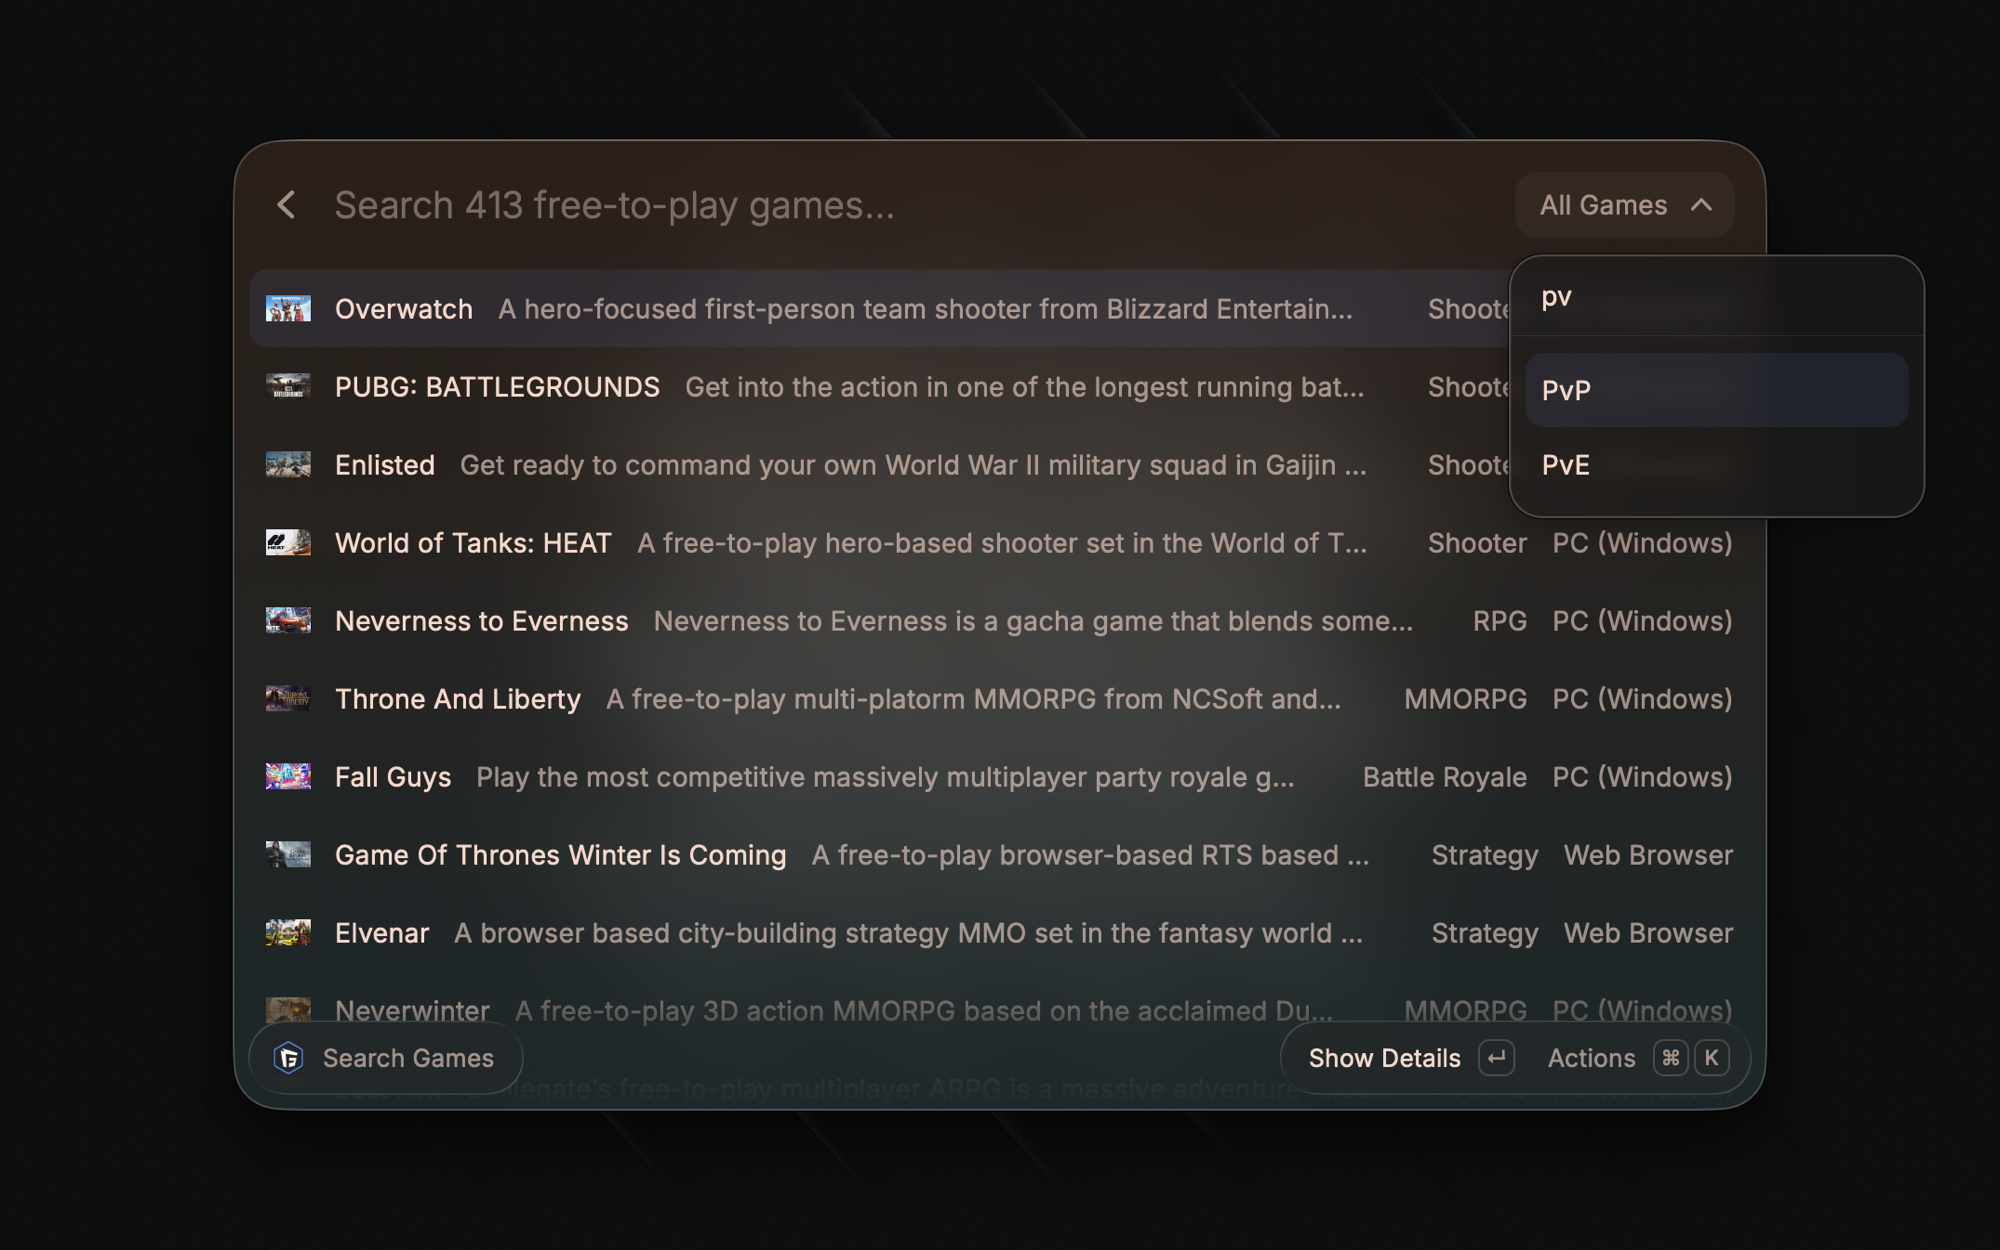
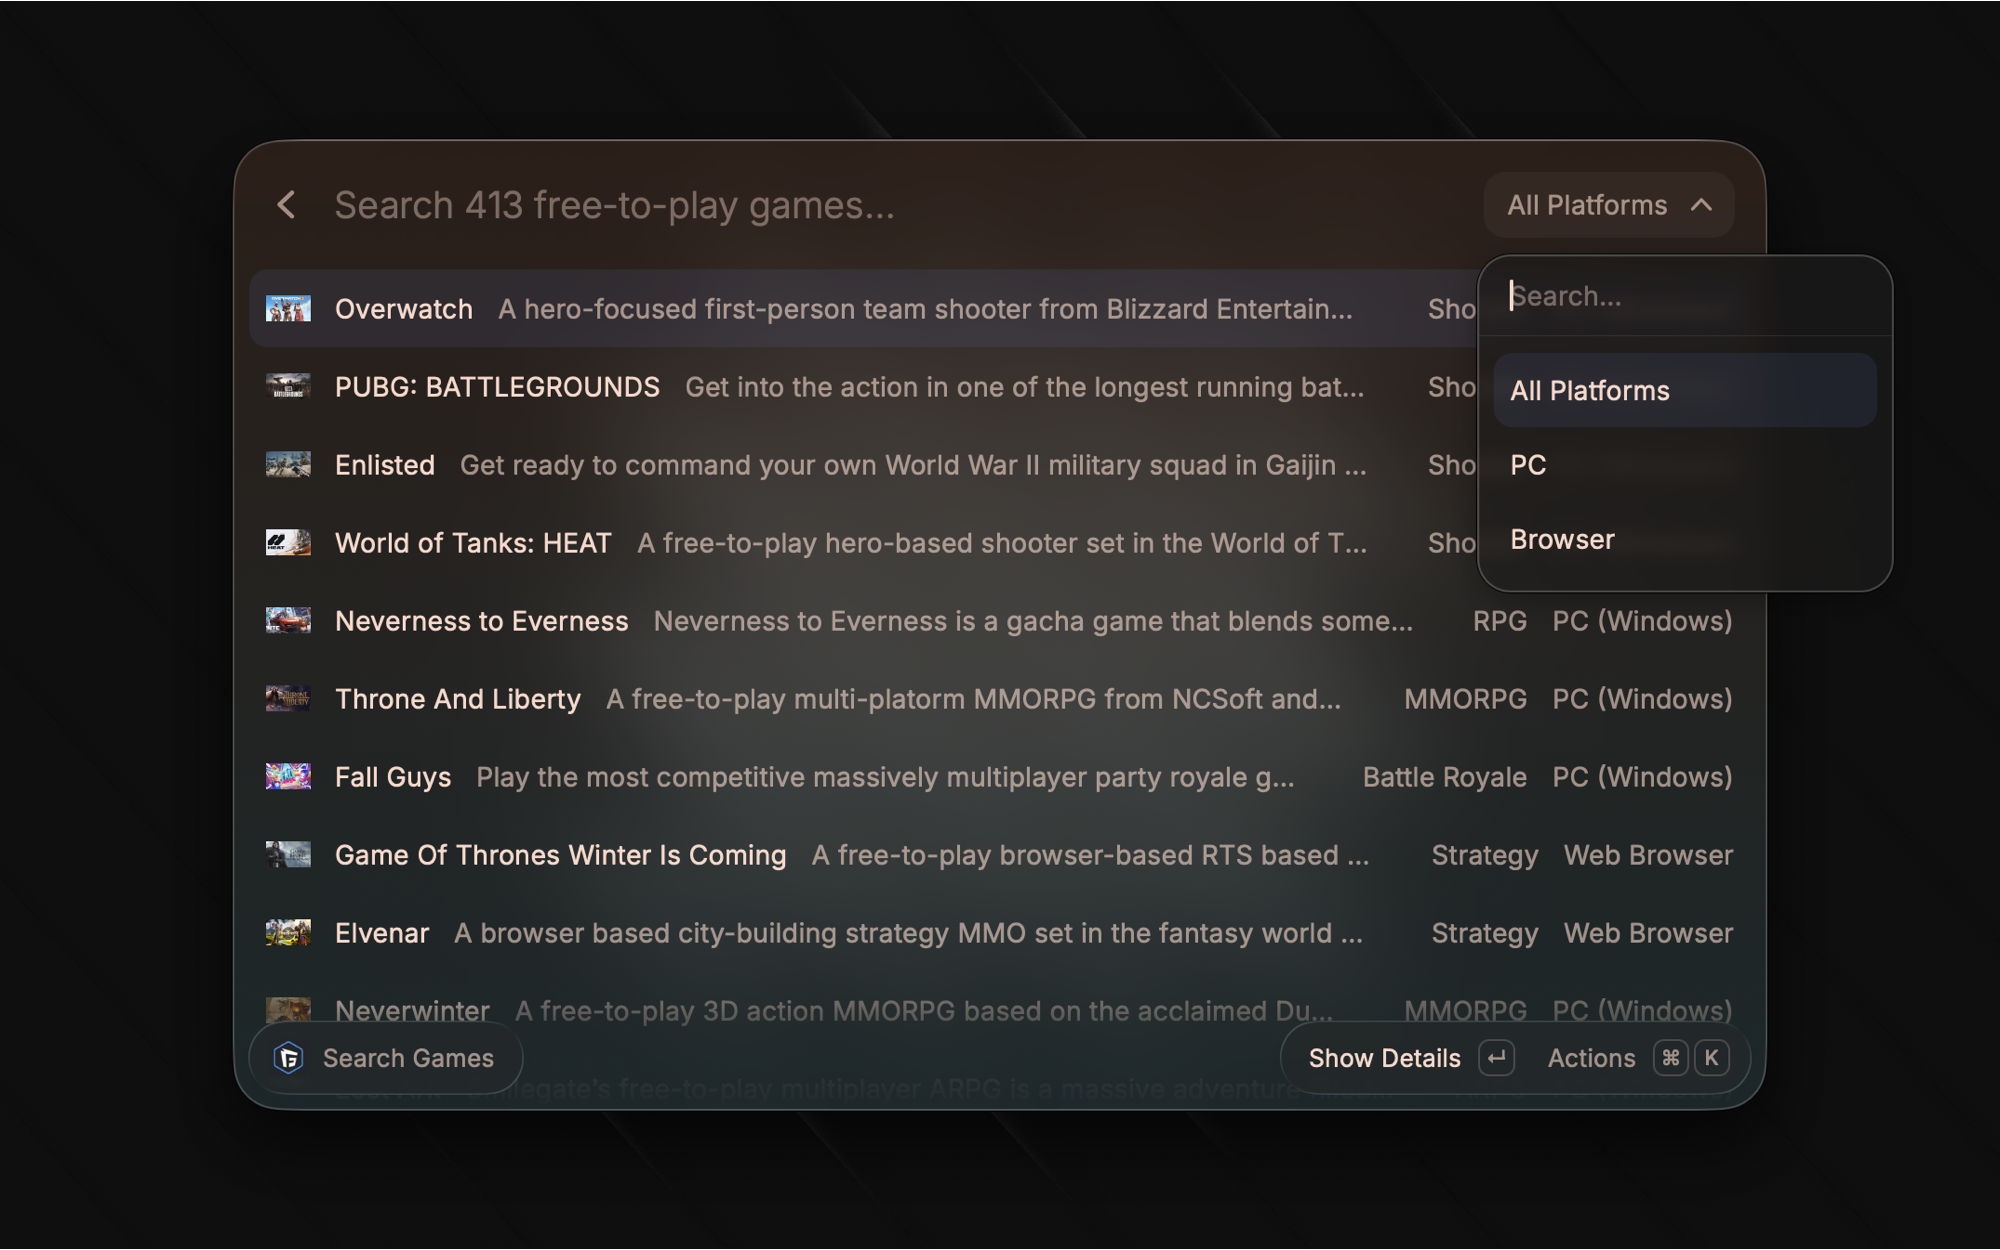
Refactor filtering and sorting to support multiple categories and client-side sorting

diff --git a/src/search-games.tsx b/src/search-games.tsx
@@ -57,13 +57,9 @@ const CATEGORY_VALUES = Object.keys(CATEGORY_LABELS) as CategoryValue[];
 
 type CategoryValue = keyof typeof CATEGORY_LABELS;
 
-type FilterValue =
-  | "all"
-  | "platform:pc"
-  | "platform:browser"
-  | `category:${CategoryValue}`
-  | "sort-by:release-date"
-  | "sort-by:alphabetical";
+type PlatformValue = "pc" | "browser";
+
+type SortValue = "release-date" | "alphabetical";
 
 type FreeToGameListItem = {
   id: number;
@@ -79,17 +75,23 @@ type FreeToGameListItem = {
   freetogame_profile_url: string;
 };
 
+type FreeToGameListResponse = FreeToGameListItem[] | { status: number; status_message: string };
+
 export default function Command() {
-  const [filter, setFilter] = useState<FilterValue>("all");
+  const [platform, setPlatform] = useState<PlatformValue>();
+  const [categories, setCategories] = useState<CategoryValue[]>([]);
+  const [sort, setSort] = useState<SortValue>();
   const [showingDetail, setShowingDetail] = useState(false);
   const {
     data: games,
     isLoading,
     error,
     revalidate,
-  } = useFetch<FreeToGameListItem[]>(buildGamesUrl(filter), {
+  } = useFetch<FreeToGameListResponse>(buildGamesUrl(platform, categories), {
     keepPreviousData: true,
   });
+
+  const sortedGames = sortGames(games, sort);
 
   if (error) {
     return (
@@ -112,16 +114,16 @@ export default function Command() {
     );
   }
 
-  const gameCount = games?.length ?? 0;
+  const gameCount = sortedGames?.length ?? 0;
 
   return (
     <List
       isLoading={isLoading}
       isShowingDetail={showingDetail}
       searchBarPlaceholder={`Search ${gameCount} free-to-play ${gameCount === 1 ? "game" : "games"}...`}
-      searchBarAccessory={<GameFilterDropdown filter={filter} onFilterChange={setFilter} />}
+      searchBarAccessory={<PlatformDropdown platform={platform} onPlatformChange={setPlatform} />}
     >
-      {games?.map((game) => (
+      {sortedGames?.map((game) => (
         <List.Item
           key={game.id}
           title={game.title}
@@ -135,40 +137,44 @@ export default function Command() {
               game={game}
               showingDetail={showingDetail}
               onToggleDetail={() => setShowingDetail(!showingDetail)}
+              categories={categories}
+              onToggleCategory={(category) =>
+                setCategories((categories) =>
+                  categories.includes(category)
+                    ? categories.filter((selectedCategory) => selectedCategory !== category)
+                    : [...categories, category],
+                )
+              }
+              onClearCategories={() => setCategories([])}
+              sort={sort}
+              onSortChange={setSort}
             />
           }
         />
       ))}
-      {!isLoading && games?.length === 0 ? (
+      {!isLoading && sortedGames?.length === 0 ? (
         <List.EmptyView title="No games found" description="Try another filter." />
       ) : null}
     </List>
   );
 }
 
-function GameFilterDropdown({
-  filter,
-  onFilterChange,
+function PlatformDropdown({
+  platform,
+  onPlatformChange,
 }: {
-  filter: FilterValue;
-  onFilterChange: (filter: FilterValue) => void;
+  platform: PlatformValue | undefined;
+  onPlatformChange: (platform: PlatformValue | undefined) => void;
 }) {
   return (
-    <List.Dropdown tooltip="Filter Games" value={filter} onChange={(value) => onFilterChange(value as FilterValue)}>
-      <List.Dropdown.Item title="All Games" value="all" />
-      <List.Dropdown.Section title="Platform">
-        <List.Dropdown.Item title="PC" value="platform:pc" />
-        <List.Dropdown.Item title="Browser" value="platform:browser" />
-      </List.Dropdown.Section>
-      <List.Dropdown.Section title="Category">
-        {CATEGORY_VALUES.map((category) => (
-          <List.Dropdown.Item key={category} title={CATEGORY_LABELS[category]} value={`category:${category}`} />
-        ))}
-      </List.Dropdown.Section>
-      <List.Dropdown.Section title="Sort">
-        <List.Dropdown.Item title="Release Date" value="sort-by:release-date" />
-        <List.Dropdown.Item title="Alphabetical" value="sort-by:alphabetical" />
-      </List.Dropdown.Section>
+    <List.Dropdown
+      tooltip="Filter Platform"
+      value={platform ?? "all"}
+      onChange={(value) => onPlatformChange(value === "all" ? undefined : (value as PlatformValue))}
+    >
+      <List.Dropdown.Item title="All Platforms" value="all" />
+      <List.Dropdown.Item title="PC" value="pc" />
+      <List.Dropdown.Item title="Browser" value="browser" />
     </List.Dropdown>
   );
 }
@@ -177,20 +183,67 @@ function GameActions({
   game,
   showingDetail,
   onToggleDetail,
+  categories,
+  onToggleCategory,
+  onClearCategories,
+  sort,
+  onSortChange,
 }: {
   game: FreeToGameListItem;
   showingDetail: boolean;
   onToggleDetail: () => void;
+  categories: CategoryValue[];
+  onToggleCategory: (category: CategoryValue) => void;
+  onClearCategories: () => void;
+  sort: SortValue | undefined;
+  onSortChange: (sort: SortValue | undefined) => void;
 }) {
   return (
     <ActionPanel>
       <Action title={showingDetail ? "Hide Details" : "Show Details"} onAction={onToggleDetail} />
+      <ActionPanel.Submenu title="Filter Categories" shortcut={Keyboard.Shortcut.Common.Copy}>
+        {categories.length > 0 ? (
+          <Action title="Clear Categories" onAction={onClearCategories} shortcut={Keyboard.Shortcut.Common.RemoveAll} />
+        ) : null}
+        {CATEGORY_VALUES.map((category) => (
+          <Action
+            key={category}
+            title={`${categories.includes(category) ? "✓ " : ""}${CATEGORY_LABELS[category]}`}
+            onAction={() => onToggleCategory(category)}
+          />
+        ))}
+      </ActionPanel.Submenu>
       <Action.OpenInBrowser title="Open Game Website" url={game.game_url} shortcut={Keyboard.Shortcut.Common.Open} />
       <Action.OpenInBrowser
         title="Open FreeToGame Profile"
         url={game.freetogame_profile_url}
         shortcut={Keyboard.Shortcut.Common.OpenWith}
       />
+      <ActionPanel.Section title="Sort Games">
+        <Action
+          title="Release Date"
+          onAction={() => onSortChange("release-date")}
+          shortcut={{
+            macOS: { modifiers: ["cmd", "shift"], key: "r" },
+            Windows: { modifiers: ["ctrl", "shift"], key: "r" },
+          }}
+        />
+        <Action
+          title="Alphabetical"
+          onAction={() => onSortChange("alphabetical")}
+          shortcut={{
+            macOS: { modifiers: ["cmd", "shift"], key: "a" },
+            Windows: { modifiers: ["ctrl", "shift"], key: "a" },
+          }}
+        />
+        {sort ? (
+          <Action
+            title="Clear Sort"
+            onAction={() => onSortChange(undefined)}
+            shortcut={Keyboard.Shortcut.Common.Remove}
+          />
+        ) : null}
+      </ActionPanel.Section>
     </ActionPanel>
   );
 }
@@ -231,15 +284,35 @@ function GameListMetadata({ game }: { game: FreeToGameListItem }) {
   );
 }
 
-function buildGamesUrl(filter: FilterValue) {
-  const url = new URL(`${API_BASE_URL}/games`);
+function buildGamesUrl(platform: PlatformValue | undefined, categories: CategoryValue[]) {
+  const hasCategories = categories.length > 0;
+  const url = new URL(`${API_BASE_URL}/${hasCategories ? "filter" : "games"}`);
 
-  if (filter === "all") {
-    return url.toString();
+  if (hasCategories) {
+    url.searchParams.set("tag", categories.join("."));
   }
 
-  const [key, value] = filter.split(":");
-  url.searchParams.set(key, value);
+  if (platform) {
+    url.searchParams.set("platform", hasCategories && platform === "pc" ? "windows" : platform);
+  }
 
   return url.toString();
+}
+
+function sortGames(games: FreeToGameListResponse | undefined, sort: SortValue | undefined) {
+  if (!Array.isArray(games)) {
+    return [];
+  }
+
+  if (!sort) {
+    return games;
+  }
+
+  return [...games].sort((game, otherGame) => {
+    if (sort === "alphabetical") {
+      return game.title.localeCompare(otherGame.title);
+    }
+
+    return otherGame.release_date.localeCompare(game.release_date);
+  });
 }